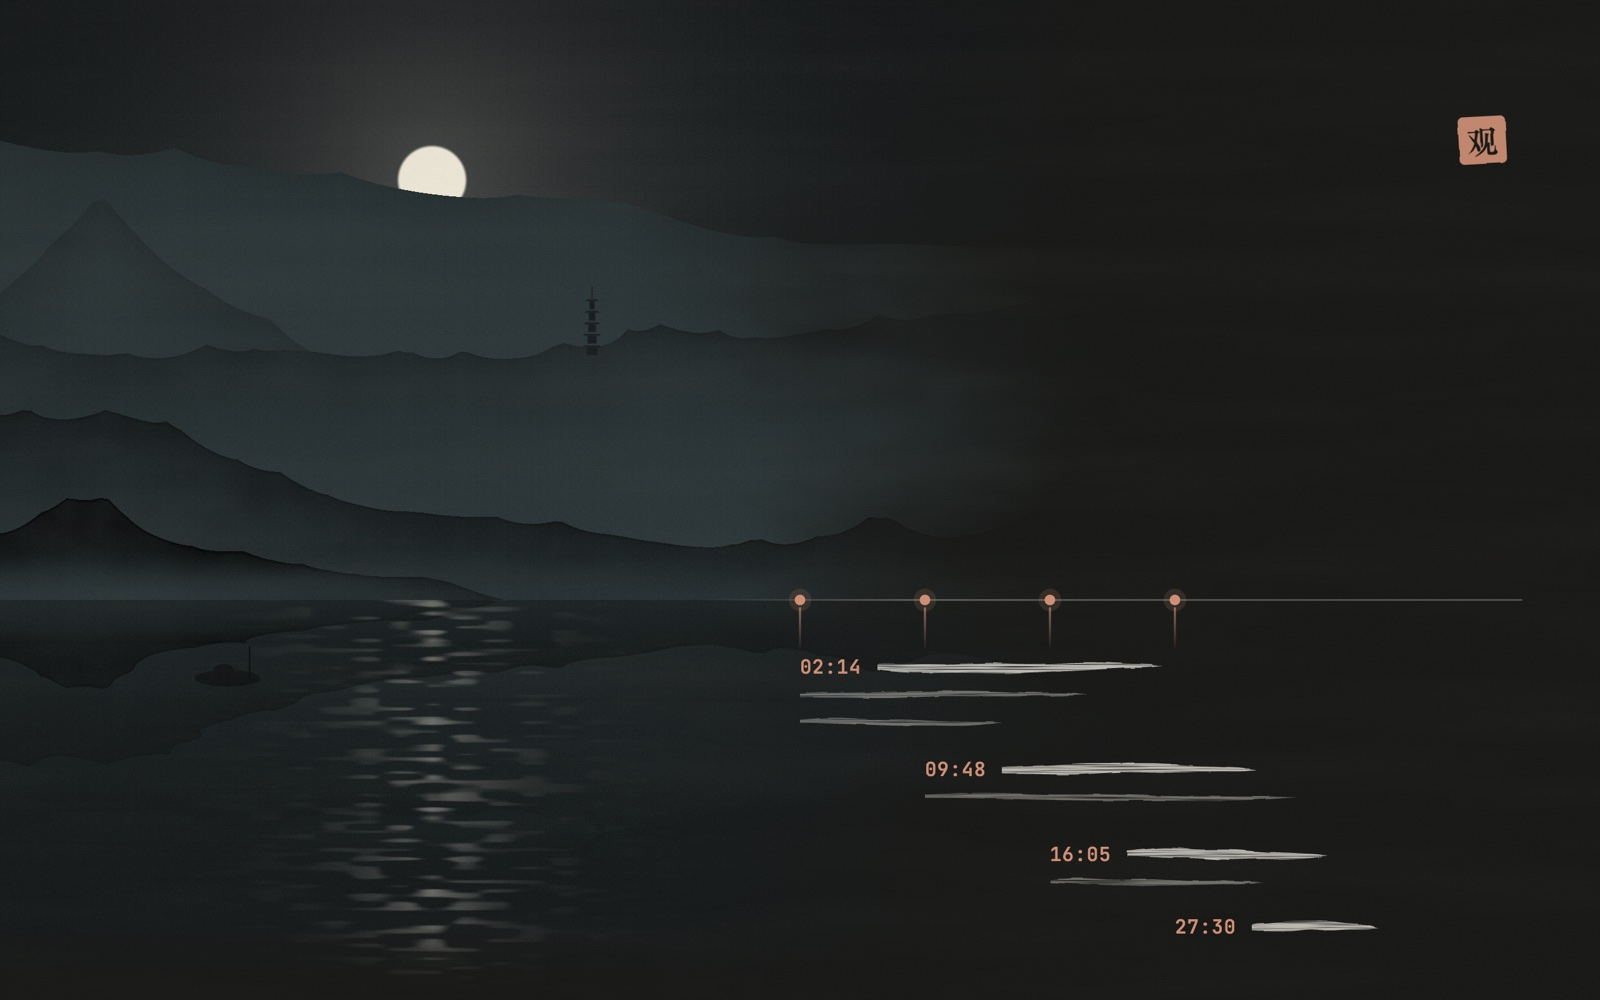
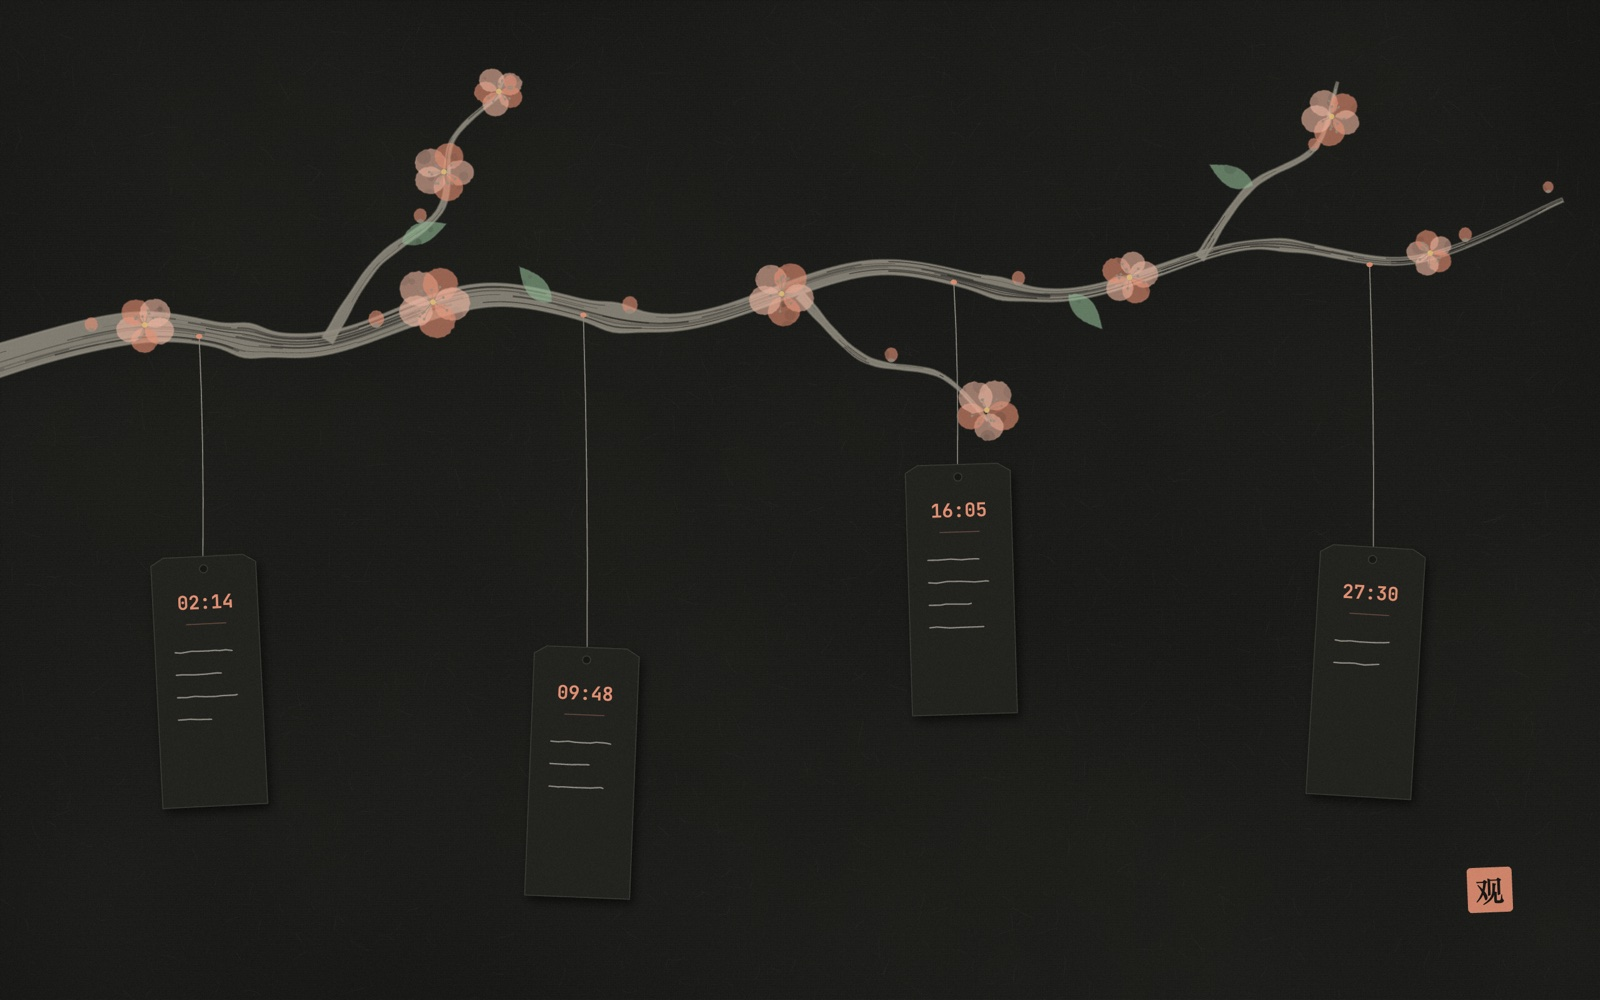
Video Insight: plum-bough watercolor cover with hanging timestamp tags; Source-only card
Projects may now omit url (nothing to visit); the card links to the repo.

diff --git a/src/content.config.ts b/src/content.config.ts
@@ -25,14 +25,15 @@ const projects = defineCollection({
     coverDark: z.string().optional(),
     /** Built-in illustrated card art, used when there is no cover */
     art: z.enum(["west-lake", "los-gatos"]).optional(),
-    url: z.string(),
+    /** Where to try it. Leave out for tools with nothing to visit; the card then links to `repo`. */
+    url: z.string().optional(),
     repo: z.string().optional(),
     year: z.number(),
     status: z.enum(["active", "shipped", "archived"]).default("active"),
     tags: z.array(z.string()).default([]),
     featured: z.boolean().default(false),
     order: z.number().default(100),
-  }),
+  }).refine((d) => d.url || d.repo, { message: "A project needs a url or a repo" }),
 });
 
 export const collections = { thoughts, projects };

diff --git a/README.md b/README.md
@@ -26,6 +26,7 @@ draft: false        # true = only visible in `npm run dev`
 **Add a project:** add `src/content/projects/name.md` (see `west-lake-dreams.md` for the fields).
 For a cover image, put a screenshot in `public/projects/` and add `cover: "/projects/name.jpg"`.
 Add `coverDark: "/projects/name-dark.jpg"` to show a different image in dark mode (e.g. a dusk or night view).
+Leave out `url` for something with nothing to visit (e.g. a local tool); the card then shows only **Source**.
 A project that is its own GitHub Pages repo can use a relative `url` like `/repo-name/`,
 which follows the custom domain automatically. Also add it to `reservedPaths` in `site.config.ts`.
 

diff --git a/src/content/projects/video-insight.md b/src/content/projects/video-insight.md
@@ -4,7 +4,7 @@ subtitle: "Watch less, understand more"
 description: "A small local tool for long tech talks. Paste a YouTube or Bilibili link and get detailed study notes, with every point tied to a timestamp you can jump back to. It runs on your own Mac: captions come from the platform or local Whisper, and Claude writes the notes."
 cover: "/projects/video-insight.jpg"
 coverDark: "/projects/video-insight-night.jpg"
-url: "https://github.com/kidwise/video-insight"
+repo: "https://github.com/kidwise/video-insight"   # no url: it runs on your own Mac, so the card shows Source only
 year: 2026
 status: "active"
 tags: ["tool", "AI", "local-first"]
